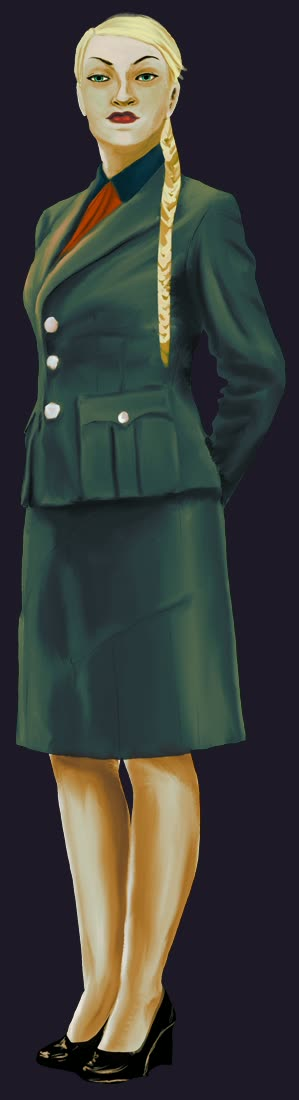
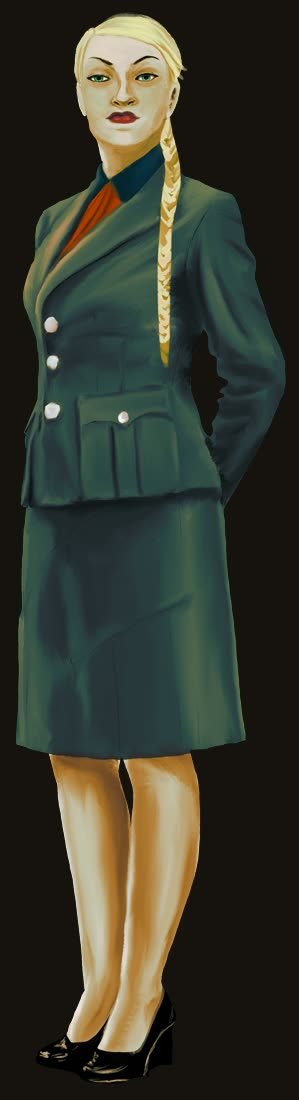
Wiki: shift the palette toward the capsule art
Green-black ground, warm charcoal panels, title gold accents and
infobox bars, fire-orange links, rust-red frame lines on panels,
headings and the top bar, title-shadow red for alerts. Secondary
palette colours (cyan, rose, olive) kept for the timeline and callouts.
Portraits and banner re-rendered on the new background.

diff --git a/wiki/assets/css/wiki.css b/wiki/assets/css/wiki.css
@@ -26,31 +26,39 @@
   --p-rose:       #ad9589;
   --p-sand:       #d1c297;
 
-  --body:         #110e18;   /* page background (darkened night violet) */
-  --page:         #1d1928;   /* main content panel */
-  --page-2:       #463c47;   /* secondary surfaces: table headers, chips */
-  --page-3:       #251f31;   /* inset boxes inside the panel */
-  --panel-deep:   #17131f;   /* main page boxes */
-  --tile:         #221d2e;
-  --tile-border:  #3a3247;
-  --text:         #ebe3cc;   /* light sand */
-  --text-2:       #c7bca6;
-  --text-mix:     #8f887c;
-  --border:       #4a4152;
-  --border-soft:  #2f2839;
-  --link:         #7fb0c0;   /* dusty cyan, lifted for contrast */
-  --link-hover:   #d1c297;
-  --link-new:     #d48a8f;
-  --accent:       #d1c297;   /* sand */
-  --accent-ink:   #1d1928;
-  --accent-soft:  rgba(209,194,151,.45);
-  --header-name:  #d1c297;
-  --sticky:       #16121e;
-  --alert:        #a8394a;   /* maroon, lifted */
-  --alert-soft:   #431f2b;
-  --ok:           #8ea667;   /* olive, lifted */
-  --menu-bg:      #241e30;
-  --menu-hover:   #322a40;
+  /* Capsule art colours: #040e0c green-black ground · #7d220d rust frame ·
+     #e8a41f title gold · #a41b16 title shadow red · #f49018 fire orange */
+  --c-ground:     #040e0c;
+  --c-rust:       #7d220d;
+  --c-gold:       #e8a41f;
+  --c-blood:      #a41b16;
+  --c-fire:       #f49018;
+
+  --body:         #070b0a;   /* capsule art ground */
+  --page:         #15120f;   /* main content panel: warm charcoal */
+  --page-2:       #3a2c24;   /* secondary surfaces: table headers, chips */
+  --page-3:       #1d1915;   /* inset boxes inside the panel */
+  --panel-deep:   #100e0c;   /* main page boxes */
+  --tile:         #1c1814;
+  --tile-border:  #3a2c22;
+  --text:         #efe3c8;   /* warm cream */
+  --text-2:       #cbb99b;
+  --text-mix:     #8c7c68;
+  --border:       #4a362a;
+  --border-soft:  #2c221c;
+  --link:         #f0a65a;   /* fire orange, softened for reading */
+  --link-hover:   #ffd27a;
+  --link-new:     #e07a6a;
+  --accent:       #e8a41f;   /* title gold */
+  --accent-ink:   #140d05;
+  --accent-soft:  rgba(232,164,31,.42);
+  --header-name:  #e8a41f;
+  --sticky:       #0b0c0a;
+  --alert:        #b52418;   /* title shadow red */
+  --alert-soft:   #3a100b;
+  --ok:           #8ea667;   /* olive from the palette */
+  --menu-bg:      #1f1a15;
+  --menu-hover:   #2e241c;
 
   --font:         'Rubik', helvetica, arial, sans-serif;
   --font-mono:    'IBM Plex Mono', ui-monospace, Consolas, monospace;
@@ -75,7 +83,7 @@ a.new { color: var(--link-new); }
 a.external::after { content: '↗'; font-size: .75em; margin-left: .15em; opacity: .7; }
 :focus-visible { outline: 2px solid var(--accent); outline-offset: 2px; }
 code { font: .88em var(--font-mono); background: var(--page-3); padding: .1em .35em; border-radius: 3px; }
-mark { background: rgba(209,194,151,.28); color: var(--text); padding: 0 .1em; border-radius: 2px; }
+mark { background: rgba(232,164,31,.3); color: var(--text); padding: 0 .1em; border-radius: 2px; }
 .muted { color: var(--text-mix); }
 .skip-link { position: absolute; left: -999px; top: 8px; background: var(--sticky); color: var(--text); padding: 8px 12px; z-index: 100; }
 .skip-link:focus { left: 8px; }
@@ -92,7 +100,7 @@ mark { background: rgba(209,194,151,.28); color: var(--text); padding: 0 .1em; b
   border: 1px solid var(--border); border-radius: 4px; font: 400 15px var(--font);
 }
 .searchbox input::placeholder { color: var(--text-mix); }
-.searchbox input:focus { outline: none; border-color: var(--link); background: #2a2337; }
+.searchbox input:focus { outline: none; border-color: var(--link); background: #251e18; }
 .search-icon { position: absolute; left: 11px; top: 8px; width: 18px; height: 18px; color: var(--text-2); pointer-events: none; }
 .suggest {
   position: absolute; top: calc(100% + 6px); left: 0; right: 0; z-index: 70; list-style: none; margin: 0; padding: 6px 0;
@@ -113,9 +121,9 @@ mark { background: rgba(209,194,151,.28); color: var(--text); padding: 0 .1em; b
 .toplinks a { font: 700 12px var(--font); text-transform: uppercase; letter-spacing: .04em; padding: 7px 12px; border-radius: 4px; white-space: nowrap; }
 .toplinks a:hover { text-decoration: none; }
 .btn-outline { color: var(--accent); border: 1px solid var(--accent); }
-.btn-outline:hover { background: rgba(209,194,151,.12); color: var(--accent); }
+.btn-outline:hover { background: rgba(232,164,31,.12); color: var(--accent); }
 .btn-solid { color: var(--accent-ink); background: var(--accent); border: 1px solid var(--accent); }
-.btn-solid:hover { background: #e6d9b0; color: var(--p-night); }
+.btn-solid:hover { background: #ffc24d; color: var(--p-night); }
 .nav-toggle { display: none; width: 36px; height: 34px; background: none; border: 1px solid var(--border); border-radius: 4px; padding: 9px 8px; cursor: pointer; flex-direction: column; justify-content: space-between; }
 .nav-toggle span { display: block; height: 2px; background: var(--text); }
 
@@ -123,7 +131,7 @@ mark { background: rgba(209,194,151,.28); color: var(--text); padding: 0 .1em; b
 .main-container { width: 100%; max-width: var(--container); margin: 0 auto; padding: 0 16px 40px; flex: 1; }
 .community-header {
   position: relative; margin: 0 -16px; padding: 30px 32px 0;
-  background-color: #110e18;
+  background-color: #070b0a;
   background-image: linear-gradient(to bottom, rgba(0,0,0,0) 55%, var(--body)), url('../img/header-bg.jpg');
   background-size: cover; background-position: right center;
 }
@@ -133,7 +141,7 @@ mark { background: rgba(209,194,151,.28); color: var(--text); padding: 0 .1em; b
 .ch-wordmark:hover { text-decoration: none; color: var(--text); }
 .ch-logo {
   display: block; font: 400 44px/.86 var(--font-display); text-transform: uppercase; letter-spacing: .04em;
-  color: var(--text); text-shadow: 0 2px 10px rgba(0,0,0,.7), 0 0 18px rgba(209,194,151,.18);
+  color: var(--text); text-shadow: 0 2px 10px rgba(0,0,0,.7), 0 0 18px rgba(232,164,31,.22);
 }
 .ch-name { color: var(--header-name); font: 500 20px var(--font); padding-bottom: 4px; }
 .ch-name:hover { color: var(--header-name); }
@@ -177,7 +185,7 @@ body.is-mainpage .rail { display: none; }
 .rail-stats strong { display: block; font: 500 22px/1.1 var(--font); color: var(--accent); }
 .rail-stats span { font-size: 12px; color: var(--text-mix); text-transform: uppercase; letter-spacing: .04em; }
 .rail-btn { display: block; text-align: center; background: var(--accent); color: var(--accent-ink); font: 700 12.5px var(--font); text-transform: uppercase; padding: 9px; border-radius: 4px; }
-.rail-btn:hover { background: #e6d9b0; color: var(--p-night); text-decoration: none; }
+.rail-btn:hover { background: #ffc24d; color: var(--p-night); text-decoration: none; }
 .rail-chars { display: grid; grid-template-columns: repeat(3, minmax(0, 1fr)); gap: 8px; }
 .rail-chars a { display: block; color: var(--text); font-size: 12px; text-align: center; }
 .rail-chars a:hover { text-decoration: none; color: var(--accent); }
@@ -297,7 +305,7 @@ h2:hover .h-anchor { opacity: 1; }
 .callout-confirmed .callout-title { color: var(--ok); }
 .callout-confirmed .callout-icon { background: var(--ok); }
 .callout-spoiler, .callout-warning { border-color: var(--alert); background: var(--alert-soft); }
-.callout-spoiler .callout-title, .callout-warning .callout-title { color: #d47a85; }
+.callout-spoiler .callout-title, .callout-warning .callout-title { color: #ff7a5c; }
 .callout-spoiler .callout-icon, .callout-warning .callout-icon { background: var(--alert); color: var(--text); }
 .callout-note { border-left-color: var(--link); }
 .callout-note .callout-title { color: var(--link); }
@@ -319,10 +327,10 @@ h2:hover .h-anchor { opacity: 1; }
 .tag-tba { color: var(--text-2); border: 1px dashed var(--border); }
 .tag-new { color: var(--p-night); background: var(--accent); }
 
-.redacted { background: #0d0a12; color: transparent; padding: 0 .35em; user-select: none; border-radius: 2px; }
-.spoiler-inline { background: #0d0a12; box-shadow: 0 0 0 1px var(--border); color: transparent; cursor: pointer; border-radius: 3px; padding: 0 .2em; transition: background .2s, color .2s; }
+.redacted { background: #050605; color: transparent; padding: 0 .35em; user-select: none; border-radius: 2px; }
+.spoiler-inline { background: #050605; box-shadow: 0 0 0 1px var(--border); color: transparent; cursor: pointer; border-radius: 3px; padding: 0 .2em; transition: background .2s, color .2s; }
 .spoiler-inline a { color: transparent; }
-.spoiler-inline.revealed { background: rgba(209,194,151,.14); box-shadow: none; color: inherit; cursor: auto; }
+.spoiler-inline.revealed { background: rgba(232,164,31,.14); box-shadow: none; color: inherit; cursor: auto; }
 .spoiler-inline.revealed a { color: var(--link); }
 
 /* Tables */
@@ -375,7 +383,7 @@ h2:hover .h-anchor { opacity: 1; }
 .search-page-form { display: flex; gap: 8px; margin: 0 0 16px; max-width: 560px; }
 .search-page-form input { flex: 1; height: 38px; padding: 0 12px; border: 1px solid var(--border); border-radius: 4px; background: var(--page-3); color: var(--text); font: 15px var(--font); }
 .search-page-form button { height: 38px; padding: 0 16px; background: var(--accent); color: var(--p-night); border: 0; border-radius: 4px; cursor: pointer; font: 700 12.5px var(--font); text-transform: uppercase; }
-.search-page-form button:hover { background: #e6d9b0; }
+.search-page-form button:hover { background: #ffc24d; }
 .search-results { padding-left: 1.3em; }
 .search-results li { margin-bottom: 16px; }
 .sr-title { font-size: 17px; font-weight: 500; }
@@ -387,7 +395,7 @@ h2:hover .h-anchor { opacity: 1; }
 /* 404 */
 .notfound { text-align: center; padding: 18px 0 8px; }
 .notfound ul { list-style: none; padding: 0; }
-.stamp-big { display: inline-block; font: 700 26px var(--font); letter-spacing: .12em; color: #d47a85; border: 3px solid var(--alert); border-radius: 8px; padding: 8px 18px; margin: 10px 0 22px; }
+.stamp-big { display: inline-block; font: 700 26px var(--font); letter-spacing: .12em; color: #ff7a5c; border: 3px solid var(--alert); border-radius: 8px; padding: 8px 18px; margin: 10px 0 22px; }
 
 /* ------------------------------------------------------------------ Main page */
 .mainpage { display: flex; flex-direction: column; gap: 20px; }
@@ -408,7 +416,7 @@ h2:hover .h-anchor { opacity: 1; }
   background: var(--tile); border: 1px solid var(--tile-border); border-radius: 8px; color: var(--text-2); font-size: 14px;
   transition: border-color .15s, color .15s, background .15s;
 }
-.mp-tile:hover { border-color: var(--link); color: var(--accent); background: #29223a; text-decoration: none; }
+.mp-tile:hover { border-color: var(--link); color: var(--accent); background: #2a2018; text-decoration: none; }
 .mp-columns { display: grid; grid-template-columns: minmax(0, 1fr) 300px; gap: 20px; align-items: start; }
 .mp-main, .mp-side { display: flex; flex-direction: column; gap: 20px; min-width: 0; }
 .mp-box { background: var(--panel-deep); border: 1px solid var(--tile-border); border-radius: 10px; padding: 0 18px 16px; overflow: hidden; }
@@ -434,8 +442,8 @@ h2:hover .h-anchor { opacity: 1; }
 
 /* ------------------------------------------------------------------ Vertical timeline */
 .vtl-wrap {
-  --k-olay: #8f887c; --k-donem: var(--p-sand); --k-arthur: var(--link); --k-mary: var(--p-rose);
-  --k-yangin: #c25a63; --k-tesis: var(--ok);
+  --k-olay: #8f887c; --k-donem: var(--c-gold); --k-arthur: #8fb6c4; --k-mary: var(--p-rose);
+  --k-yangin: var(--c-fire); --k-tesis: var(--ok);
   margin: .8em 0 1.6em; clear: both;
 }
 .vtl-legend { display: flex; flex-wrap: wrap; gap: 6px 16px; font: 500 12px var(--font); text-transform: uppercase; color: var(--text-2); margin-bottom: 12px; padding: 8px 12px; border: 1px solid var(--border); border-radius: 6px; }
@@ -467,7 +475,7 @@ h2:hover .h-anchor { opacity: 1; }
 .vtl-node.lane-0 { left: 4px; } .vtl-node.lane-1 { left: 49px; }
 .vtl-card { margin: 8px 0; padding: 10px 14px 11px; background: var(--page-3); border: 1px solid var(--border-soft); border-left: 4px solid var(--k); border-radius: 6px; min-width: 0; }
 .vtl-key-event .vtl-card { background: color-mix(in srgb, var(--k) 8%, var(--page-3)); }
-.k-donem .vtl-card { background-image: repeating-linear-gradient(-45deg, transparent 0 10px, rgba(209,194,151,.07) 10px 11px); padding-top: 14px; padding-bottom: 15px; }
+.k-donem .vtl-card { background-image: repeating-linear-gradient(-45deg, transparent 0 10px, rgba(232,164,31,.07) 10px 11px); padding-top: 14px; padding-bottom: 15px; }
 .vtl-kind { font: 700 11px var(--font); text-transform: uppercase; letter-spacing: .06em; color: var(--k); }
 .vtl-title { font: 500 17px/1.3 var(--font); margin: 2px 0 4px; color: var(--text); }
 .vtl-text { font-size: 14.5px; line-height: 1.55; color: var(--text-2); }
@@ -481,7 +489,7 @@ h2:hover .h-anchor { opacity: 1; }
 .vtl-gap-label { font-size: 12px; color: var(--text-mix); align-self: center; }
 
 /* ------------------------------------------------------------------ Footer */
-.site-footer { background: #0d0a12; color: var(--text-mix); border-top: 1px solid var(--border-soft); font-size: 13.5px; margin-top: 10px; }
+.site-footer { background: #050605; color: var(--text-mix); border-top: 1px solid var(--border-soft); font-size: 13.5px; margin-top: 10px; }
 .footer-inner { max-width: var(--container); margin: 0 auto; padding: 22px 16px; display: flex; gap: 20px; justify-content: space-between; flex-wrap: wrap; }
 .site-footer a { color: var(--link); }
 .site-footer strong { color: var(--text); }
@@ -584,3 +592,11 @@ body.lb-open { overflow: hidden; }
   .layout { display: block; }
   .page-main { background: none; padding: 0; }
 }
+
+/* ------------------------------------------------------------------ Capsule-art frame accents */
+.topbar { border-bottom: 2px solid var(--c-rust); }
+.page-main, .rail-module { border: 1px solid var(--border-soft); border-top: 3px solid var(--c-rust); }
+.mp-content, .mp-box { border-color: var(--border-soft); }
+.infobox { border-color: var(--c-rust); }
+.ch-name { text-shadow: 0 2px 6px rgba(0,0,0,.8); }
+.prose h2 { border-bottom-color: var(--c-rust); }

diff --git a/wiki/index.html b/wiki/index.html
@@ -14,12 +14,12 @@
   <meta property="og:image:height" content="706">
   <meta name="twitter:card" content="summary_large_image">
   <meta name="twitter:image" content="https://veinstonestudios.github.io/wiki/assets/img/key-art.jpg">
-  <meta name="theme-color" content="#16121e">
+  <meta name="theme-color" content="#0b0c0a">
   <link rel="icon" href="assets/img/favicon.png" type="image/png">
   <link rel="preconnect" href="https://fonts.googleapis.com">
   <link rel="preconnect" href="https://fonts.gstatic.com" crossorigin>
   <link href="https://fonts.googleapis.com/css2?family=Rubik:ital,wght@0,300;0,400;0,500;0,700;1,400;1,700&family=IBM+Plex+Mono:wght@400;500&display=swap" rel="stylesheet">
-  <link rel="stylesheet" href="assets/css/wiki.css?v=2026-11-10-palette1">
+  <link rel="stylesheet" href="assets/css/wiki.css?v=2026-11-10-capsule1">
 </head>
 <body>
   <a class="skip-link" href="#content">İçeriğe geç</a>
@@ -97,7 +97,7 @@
     <button class="lb-next" type="button" aria-label="Sonraki görsel">›</button>
   </div>
 
-  <script src="content/config.js?v=2026-11-10-palette1"></script>
-  <script src="assets/js/wiki.js?v=2026-11-10-palette1"></script>
+  <script src="content/config.js?v=2026-11-10-capsule1"></script>
+  <script src="assets/js/wiki.js?v=2026-11-10-capsule1"></script>
 </body>
 </html>

diff --git a/wiki/content/config.js b/wiki/content/config.js
@@ -16,7 +16,7 @@ window.WIKI_CONFIG = {
   gameTitle: 'The Facility',
 
   /* Maddeleri düzenledikten sonra bu sayıyı değiştirin ki tarayıcılar yeni dosyaları indirsin. */
-  version: '2026-11-10.10-palette',
+  version: '2026-11-10.11-capsule',
 
   /* Üst bilgi ve alt bilgide gösterilen dış bağlantılar. */
   links: {
